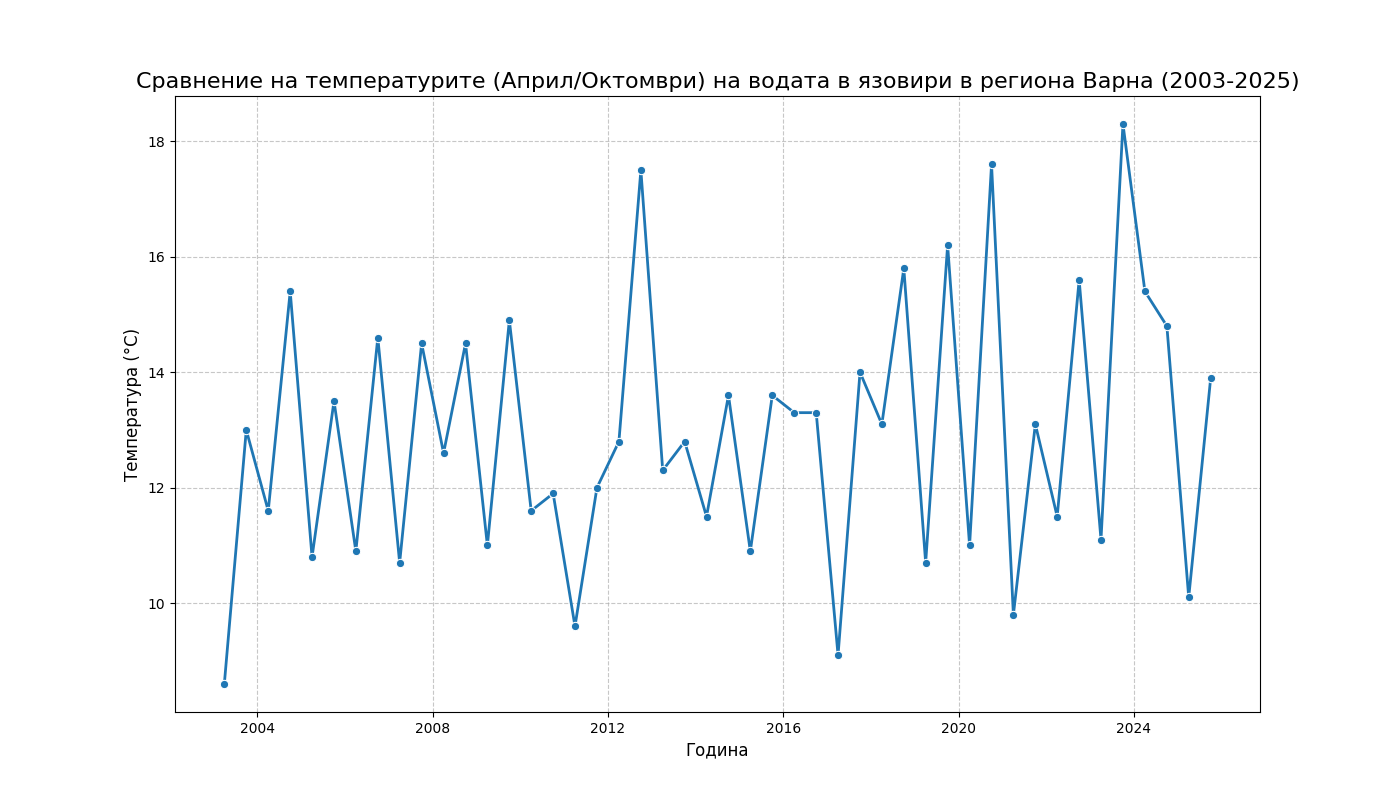
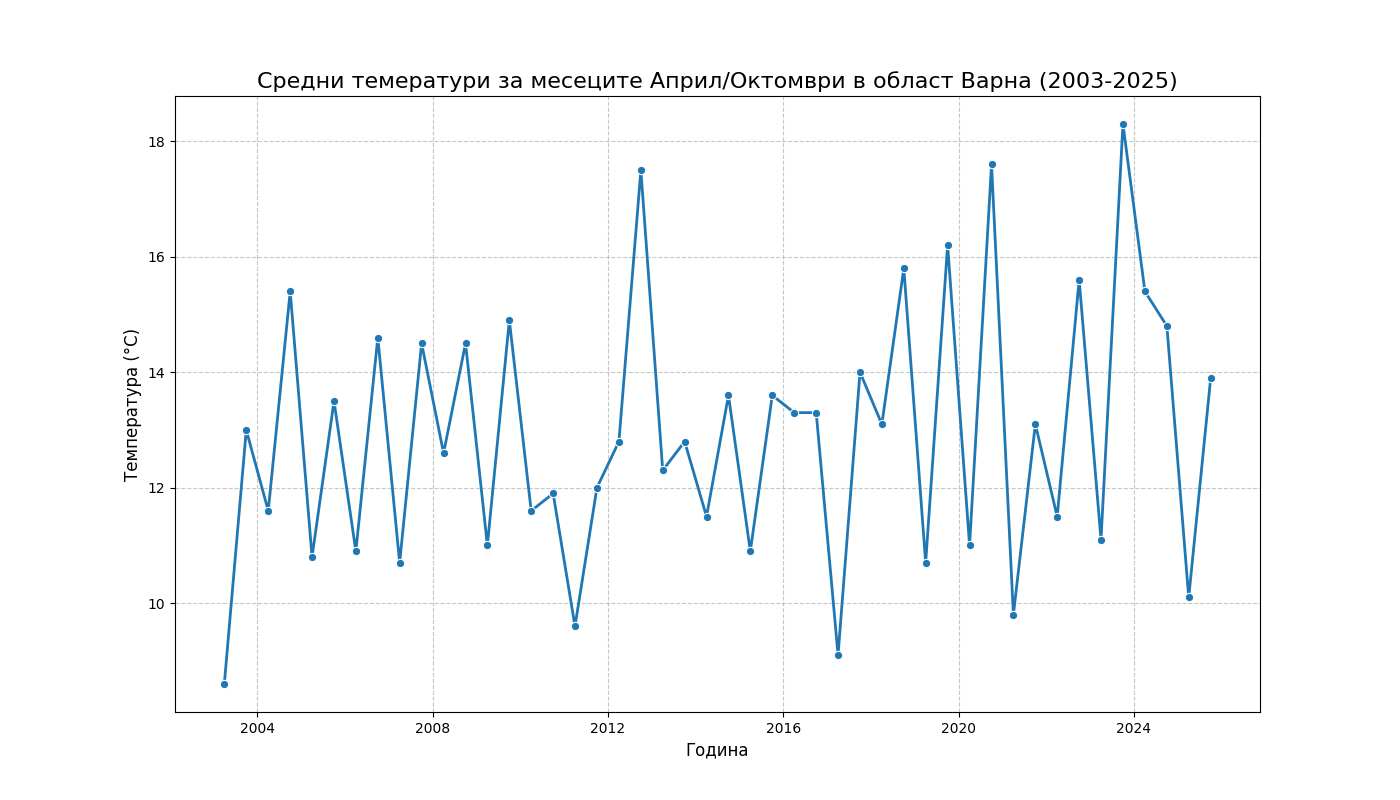
titles fix

Changed region(s): [[0.0921, 0.0938, 0.9214, 0.125]]

diff --git a/dam-temperatures-plots.py b/dam-temperatures-plots.py
@@ -10,7 +10,7 @@ def line_plot(df: pd.DataFrame, region, file_name):
                   marker='o',
                   linewidth=2)
 
-     title = f'Сравнение на температурите (Април/Октомври) на водата в язовири в региона {region} (2003-2025)'
+     title = f'Средни темератури за месеците Април/Октомври в област {region} (2003-2025)'
      plt.title(title, fontsize=16)
      plt.xlabel('Година', fontsize=12)
      plt.ylabel('Температура (°C)', fontsize=12)
@@ -28,7 +28,7 @@ def main():
     city_mapping = {
         'Sofia': 'София',
         'Varna': 'Варна',
-        'Vidin_Montana': 'Видин за Монтана',
+        'Vidin_Montana': 'Монтана',
         'Veliko_Tarnovo': 'Велико Търново',
         'Kardzhali': 'Кърджали'
     }

diff --git a/dam-temperatures.py b/dam-temperatures.py
@@ -20,7 +20,7 @@ def main():
     city_mapping = {
         'Sofia': 'София',
         'Varna': 'Варна',
-        'Vidin_Montana': 'Видин за Монтана',
+        'Vidin_Montana': 'Монтана',
         'Veliko_Tarnovo': 'Велико Търново',
         'Kardzhali': 'Кърджали'
     }
@@ -36,7 +36,7 @@ def main():
                  linewidth=2)
 
     plt.title(
-        'Сравнение на температурите (Април/Октомври) на водата в язовири в 5 български региона (2003-2025)',
+        'Сравнение на средните температури (Април/Октомври) в 5 български региона (2003-2025)',
         fontsize=16)
     plt.xlabel('Година', fontsize=12)
     plt.ylabel('Температура (°C)', fontsize=12)
